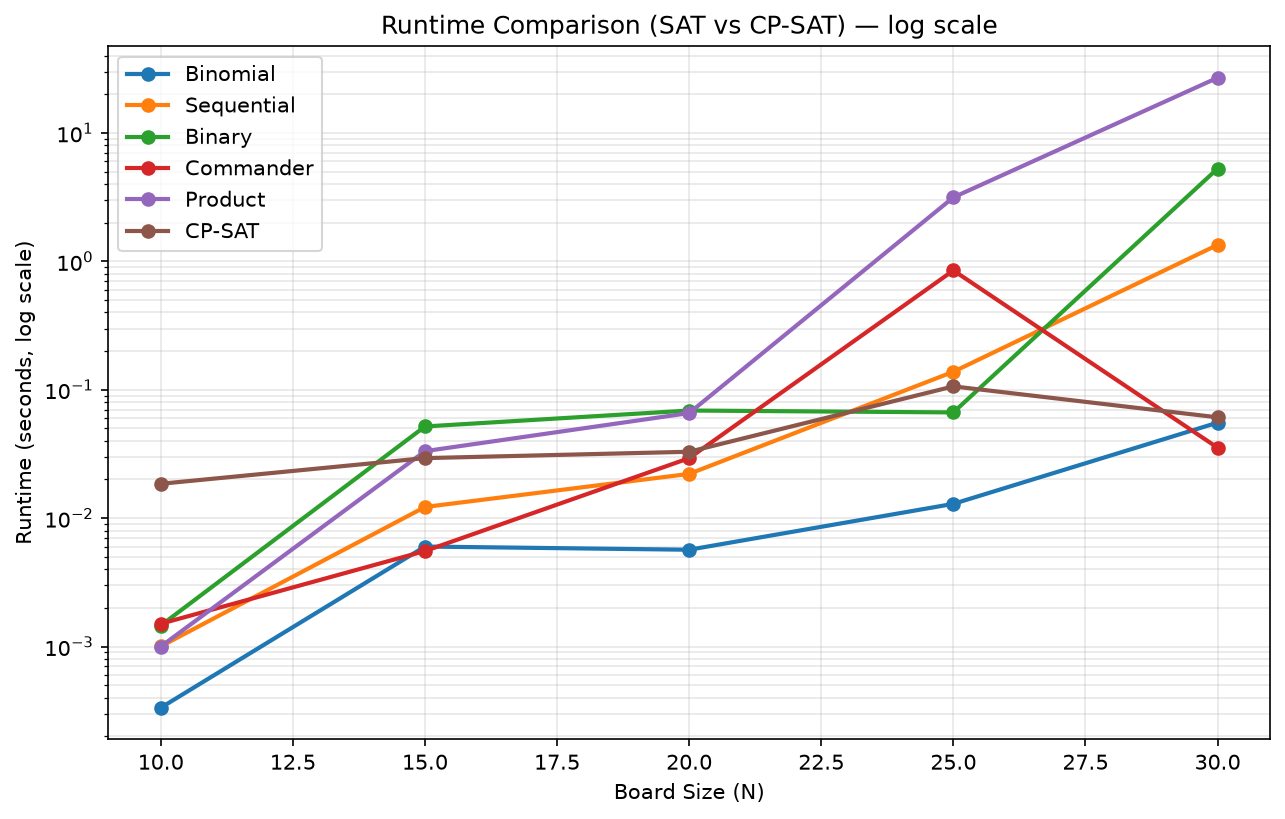
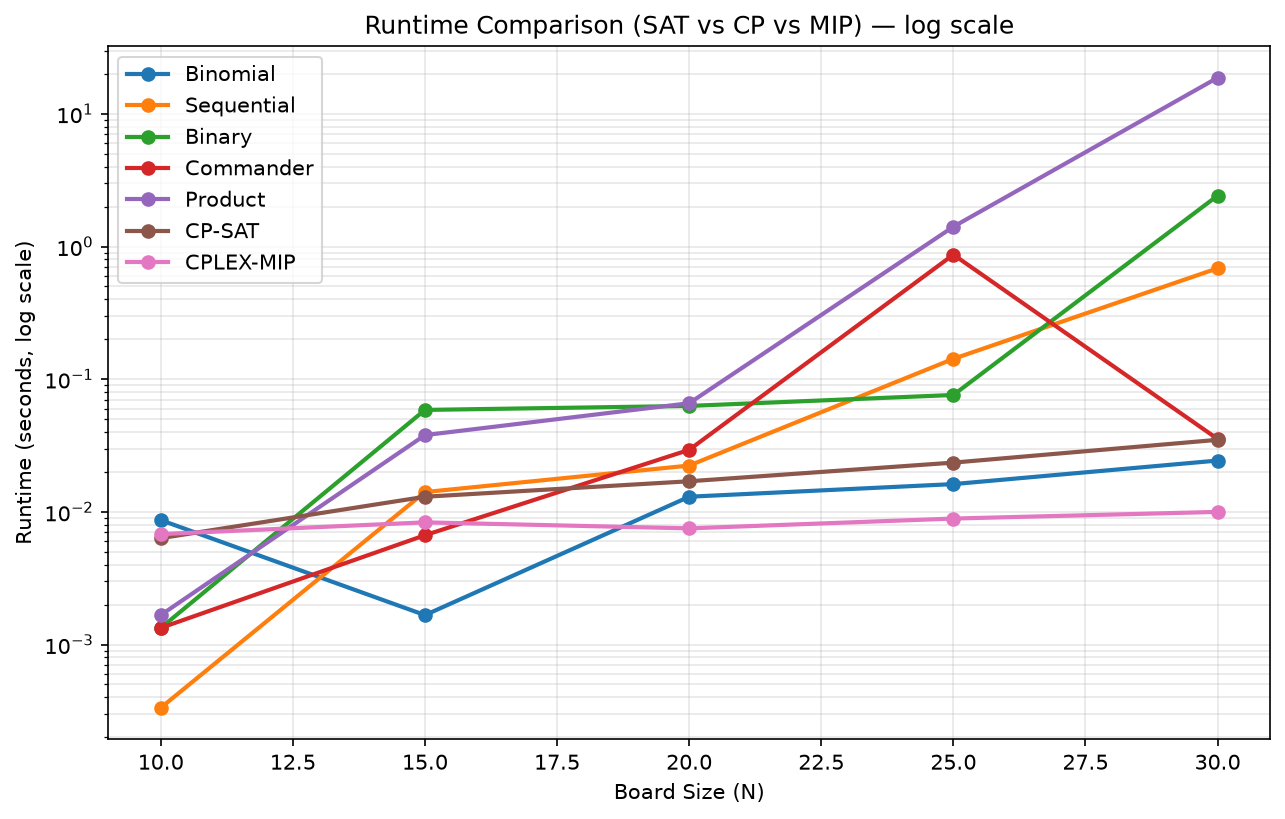
feat: integrate CPLEX MIP/CP solvers and harden benchmark methodology
- Add CplexMIPSolver with O(N^2) diagonal constraint optimization
- Add CplexCPSolver with auto-detect engine mechanism
- Enforce single-thread execution for all solvers to ensure fair comparison
- Implement strict verify_solution() for non-SAT models
- Fix benchmark timeout handling and chart filtering
- Update requirements.txt with docplex and cplex

diff --git a/src/benchmark.py b/src/benchmark.py
@@ -11,13 +11,16 @@ import pandas as pd
 from encoder import NQueensEncoder
 from solver import SATSolverWrapper
 from cp_solver import CPQueensSolver
+from cplex_mip_solver import CplexMIPSolver
+from cplex_cp_solver import CplexCPSolver
+
 sys.stdout.reconfigure(encoding='utf-8')
 
 PROJECT_ROOT = os.path.dirname(os.path.dirname(os.path.abspath(__file__)))
 RESULTS_DIR = os.path.join(PROJECT_ROOT, 'results')
 
 DEFAULT_SIZES = [10, 15, 20, 25, 30]
-DEFAULT_METHODS = ["binomial", "sequential", "binary", "commander", "product", "cp-sat"]
+DEFAULT_METHODS = ["binomial", "sequential", "binary", "commander", "product", "cp-sat", "cplex-mip", "cplex-cp"]
 CSV_COLUMNS = [
     'Board_Size', 'Algorithm', 'Variables', 'Clauses',
     'Gen_Time(s)', 'Solve_Time(s)', 'Runtime(s)', 'Is_SAT', 'Solution_Valid', 'Error',
@@ -87,31 +90,62 @@ def run_benchmark(args):
         for n in args.sizes:
             print(f"\n--- Đang kiểm thử N = {n} (lặp {args.repeats} lần) ---")
             for enc_name in args.methods:
-                alg_label = "CP-SAT" if enc_name == "cp-sat" else enc_name.capitalize()
+                if enc_name == "cp-sat":
+                    alg_label = "CP-SAT"
+                elif enc_name == "cplex-mip":
+                    alg_label = "CPLEX-MIP"
+                elif enc_name == "cplex-cp":
+                    alg_label = "CPLEX-CP"
+                else:
+                    alg_label = enc_name.capitalize()
+                
                 try:
-                    if enc_name == "cp-sat":
+                    if enc_name in ["cp-sat", "cplex-mip", "cplex-cp"]:
                         gen_times, solve_times = [], []
                         is_sat, valid = None, None
+                        timed_out = False
+                        active_solver = None
                         for _ in range(args.repeats):
                             start_gen = time.time()
-                            cp_solver = CPQueensSolver(n)
+                            if enc_name == "cp-sat":
+                                active_solver = CPQueensSolver(n)
+                            elif enc_name == "cplex-mip":
+                                active_solver = CplexMIPSolver(n)
+                            elif enc_name == "cplex-cp":
+                                active_solver = CplexCPSolver(n)
+
                             gen_times.append(time.time() - start_gen)
-                            is_sat, solve_time = cp_solver.solve(time_limit_sec=args.timeout)
+                            is_sat, solve_time = active_solver.solve(time_limit_sec=args.timeout)
                             solve_times.append(solve_time)
+                            timed_out = getattr(active_solver, 'timed_out', False)
+                            if not is_sat:
+                                break
                         gen_time = statistics.mean(gen_times)
                         solve_time = statistics.mean(solve_times)
                         total_time = gen_time + solve_time
                         num_vars, num_clauses = 0, 0
+                        if is_sat and active_solver is not None:
+                            valid = active_solver.verify_solution()
+                        error = "TIMEOUT" if timed_out else ""
                     else:
                         (num_vars, num_clauses, gen_time, solve_time,
                          is_sat, valid) = benchmark_sat(
                             n, enc_name, args.solver, args.repeats)
                         total_time = gen_time + solve_time
+                        error = ""
                     record_result(writer, results, n, alg_label, num_vars, num_clauses,
-                                  gen_time, solve_time, total_time, is_sat, valid)
+                                  gen_time, solve_time, total_time, is_sat, valid, error)
                     print(f"[{alg_label:>10}] Biến: {num_vars:<6} | Mệnh đề: {num_clauses:<8} "
                           f"| Sinh: {gen_time:.6f}s | Giải: {solve_time:.6f}s "
-                          f"| Tổng: {total_time:.6f}s | Nghiệm hợp lệ: {valid}")
+                          f"| Tổng: {total_time:.6f}s | Nghiệm hợp lệ: {valid}"
+                          + (f" | {error}" if error else ""))
+                except RuntimeError as e:
+                    if str(e) == "MISSING_ENGINE":
+                        print(f"[{alg_label:>10}] BỎ QUA: Chưa cài engine CP Optimizer của IBM.")
+                    else:
+                        error_msg = f"{type(e).__name__}: {e}"
+                        print(f"[{alg_label:>10}] LỖI: {error_msg}")
+                        record_result(writer, results, n, alg_label, 0, 0, 0.0, 0.0, 0.0, "", None, error_msg)
                 except Exception as exc:
                     error_msg = f"{type(exc).__name__}: {exc}"
                     print(f"[{alg_label:>10}] LỖI: {error_msg}")
@@ -137,15 +171,14 @@ def plot_charts(results):
         subset = df[df['Algorithm'] == alg].sort_values('N')
         plt.plot(subset['N'], subset['Time'], marker='o', label=alg, linewidth=2)
     plt.yscale('log')
-    plt.title('Runtime Comparison (SAT vs CP-SAT) — log scale')
+    plt.title('Runtime Comparison (SAT vs CP vs MIP) — log scale')
     plt.xlabel('Board Size (N)')
     plt.ylabel('Runtime (seconds, log scale)')
     plt.legend()
     plt.grid(True, which='both', alpha=0.3)
     plt.savefig(os.path.join(RESULTS_DIR, 'chart_runtime_comparison.png'), dpi=150, bbox_inches='tight')
     plt.close()
-
-    df_sat = df[df['Algorithm'] != 'CP-SAT']
+    df_sat = df[~df['Algorithm'].isin(['CP-SAT', 'CPLEX-MIP', 'CPLEX-CP'])]
     if not df_sat.empty:
         plt.figure(figsize=(10, 6))
         for alg in df_sat['Algorithm'].unique():

diff --git a/src/cplex_mip_solver.py b/src/cplex_mip_solver.py
@@ -1,0 +1,75 @@
+import time
+from docplex.mp.model import Model
+
+class CplexMIPSolver:
+    def __init__(self, n: int):
+        self.n = n
+        self.solution = None
+        self.timed_out = False
+        self.model = Model(name="NQueens_MIP")
+
+        # Variables: x[i, j] = 1 if queen at row i, col j
+        self.x = self.model.binary_var_matrix(keys1=range(n), keys2=range(n), name="q")
+
+        # Constraints:
+        # 1. Exactly one queen per row
+        for i in range(n):
+            self.model.add_constraint(self.model.sum(self.x[i, j] for j in range(n)) == 1)
+
+        # 2. Exactly one queen per column
+        for j in range(n):
+            self.model.add_constraint(self.model.sum(self.x[i, j] for i in range(n)) == 1)
+
+        # 3. At most one queen per major diagonal (row - col = const)
+        for k in range(-n + 1, n):
+            cells = [(i, i - k) for i in range(max(0, k), min(n, n + k))]
+            if len(cells) > 1:
+                self.model.add_constraint(
+                    self.model.sum(self.x[i, j] for i, j in cells) <= 1)
+
+        # 4. At most one queen per minor diagonal (row + col = const)
+        for k in range(2 * n - 1):
+            cells = [(i, k - i) for i in range(max(0, k - n + 1), min(n, k + 1))]
+            if len(cells) > 1:
+                self.model.add_constraint(
+                    self.model.sum(self.x[i, j] for i, j in cells) <= 1)
+
+    def solve(self, time_limit_sec: float = 100.0):
+        self.model.parameters.timelimit = time_limit_sec
+        self.model.parameters.threads = 1
+        self.model.set_log_output(None)
+
+        start_time = time.time()
+        solution = self.model.solve(log_output=False)
+        end_time = time.time()
+
+        runtime = end_time - start_time
+        is_sat = solution is not None
+
+        if is_sat:
+            self.solution = [
+                next(j for j in range(self.n) if self.x[i, j].solution_value > 0.5)
+                for i in range(self.n)
+            ]
+        else:
+            self.solution = None
+
+        self.timed_out = (not is_sat) and runtime >= time_limit_sec
+
+        return is_sat, runtime
+
+    def get_model(self):
+        return self.solution
+
+    def verify_solution(self) -> bool:
+        q = self.solution
+        if not q or len(q) != self.n:
+            return False
+        return (len(set(q)) == self.n
+                and len({q[i] - i for i in range(self.n)}) == self.n
+                and len({q[i] + i for i in range(self.n)}) == self.n)
+
+if __name__ == "__main__":
+    solver = CplexMIPSolver(8)
+    is_sat, runtime = solver.solve()
+    print(f"CPLEX MIP SAT={is_sat}, Runtime={runtime:.6f}, Valid={solver.verify_solution()}")

diff --git a/src/visualize.py b/src/visualize.py
@@ -1,0 +1,71 @@
+import argparse
+import sys
+from encoder import NQueensEncoder
+from solver import SATSolverWrapper
+from cp_solver import CPQueensSolver
+
+def print_board(n: int, queens_positions: list):
+    """
+    In bàn cờ N-Queens ra Terminal.
+    queens_positions là danh sách toạ độ cột của quân hậu tại từng hàng.
+    """
+    print(f"\n=== BÀN CỜ N-QUEENS (N={n}) ===")
+    for r in range(n):
+        row_str = ""
+        for c in range(n):
+            if queens_positions[r] == c:
+                row_str += "[♛] "
+            else:
+                row_str += "[·] "
+        print(row_str)
+    print("=" * (n * 4))
+
+def main():
+    parser = argparse.ArgumentParser(description="Chạy và hiển thị trực quan bàn cờ N-Queens.")
+    parser.add_argument("--size", type=int, default=8, help="Kích thước bàn cờ (N)")
+    parser.add_argument("--method", type=str, default="cp", choices=["cp", "binomial", "sequential", "binary", "commander", "product"], help="Thuật toán muốn xem")
+    args = parser.parse_args()
+
+    n = args.size
+    method = args.method.lower()
+
+    print(f"Đang sinh bài toán N={n} bằng thuật toán: {method.upper()}...")
+    
+    if method == "cp":
+        solver = CPQueensSolver(n)
+        is_sat, runtime = solver.solve()
+        if is_sat:
+            solution = solver.get_model()
+            print(f"Đã giải xong trong {runtime:.4f}s!")
+            print_board(n, solution)
+        else:
+            print("Không tìm thấy nghiệm!")
+    else:
+        encoder = NQueensEncoder(n)
+        clauses, num_vars = encoder.generate_clauses(enc_type=method)
+        print(f"Đã sinh {len(clauses)} mệnh đề. Đang giải...")
+        
+        solver = SATSolverWrapper(clauses)
+        is_sat, runtime = solver.solve()
+        
+        if is_sat:
+            print(f"Đã giải xong trong {runtime:.4f}s!")
+            model = solver.get_model()
+            
+            # Lọc các biến mang giá trị True (thuộc khoảng 1 đến n*n)
+            # để loại bỏ các biến phụ
+            true_vars = [v for v in model if v > 0 and v <= n * n]
+            
+            # Chuyển đổi ID biến thành vị trí cột
+            queens_positions = [0] * n
+            for v in true_vars:
+                r = (v - 1) // n
+                c = (v - 1) % n
+                queens_positions[r] = c
+                
+            print_board(n, queens_positions)
+        else:
+            print("Không tìm thấy nghiệm!")
+
+if __name__ == "__main__":
+    main()

diff --git a/src/cplex_cp_solver.py b/src/cplex_cp_solver.py
@@ -1,0 +1,65 @@
+import time
+from docplex.cp.model import CpoModel
+
+def _engine_available() -> bool:
+    try:
+        from docplex.cp.solver.solver_local import CpoSolverLocal
+        ctx = CpoModel().get_cpo_context()
+        CpoSolverLocal(None, ctx)
+        return True
+    except Exception:
+        return False
+
+class CplexCPSolver:
+    def __init__(self, n: int):
+        self.n = n
+        self.solution = None
+        self.timed_out = False
+        self.model = CpoModel(name="NQueens_CP")
+
+        # Variables: q[i] is the column of the queen in row i
+        self.q = self.model.integer_var_list(n, 0, n - 1, "q")
+
+        # Constraints:
+        self.model.add(self.model.all_diff(self.q))
+        self.model.add(self.model.all_diff([self.q[i] - i for i in range(n)]))
+        self.model.add(self.model.all_diff([self.q[i] + i for i in range(n)]))
+
+    def solve(self, time_limit_sec: float = 100.0):
+        if not _engine_available():
+            raise RuntimeError("MISSING_ENGINE")
+
+        start_time = time.time()
+        solution = self.model.solve(TimeLimit=time_limit_sec, LogVerbosity="Quiet")
+        end_time = time.time()
+
+        runtime = end_time - start_time
+        is_sat = bool(solution) and solution.is_solution()
+
+        if is_sat:
+            self.solution = [solution[self.q[i]] for i in range(self.n)]
+        else:
+            self.solution = None
+
+        self.timed_out = (not is_sat) and runtime >= time_limit_sec
+
+        return is_sat, runtime
+
+    def get_model(self):
+        return self.solution
+
+    def verify_solution(self) -> bool:
+        q = self.solution
+        if not q or len(q) != self.n:
+            return False
+        return (len(set(q)) == self.n
+                and len({q[i] - i for i in range(self.n)}) == self.n
+                and len({q[i] + i for i in range(self.n)}) == self.n)
+
+if __name__ == "__main__":
+    solver = CplexCPSolver(8)
+    try:
+        is_sat, runtime = solver.solve()
+        print(f"CPLEX CP SAT={is_sat}, Runtime={runtime:.6f}, Valid={solver.verify_solution()}")
+    except Exception as e:
+        print(f"Lỗi: {e}")

diff --git a/report/main.tex b/report/main.tex
@@ -4,21 +4,20 @@
 \usepackage{amsmath}
 \usepackage{amssymb}
 \usepackage{hyperref}
-\usepackage[utf8]{inputenc}
-\usepackage[T5]{fontenc} 
-\usepackage{lmodern}
+% Sử dụng XeLaTeX để hỗ trợ tiếng Việt Unicode chuẩn không lỗi Toán
+\usepackage{fontspec}
 \usepackage{booktabs}
 \usepackage{float}
 
 \begin{document}
 
 \shorttitle{Exact SAT Solving for the N-Queens Problem}
-\shortauthors{Phạm Vinh Trí}
+\shortauthors{Pham Vinh Tri}
 
 \title[mode = title]{Exact SAT Solving and Constraint Programming for the N-Queens Problem}
 
-\author[1]{Phạm Vinh Trí}
-\address[1]{Faculty of Information Technology, Trường Đại học Công nghệ, Việt Nam}
+\author[1]{Pham Vinh Tri}
+\address[1]{Faculty of Information Technology, VNU University of Engineering and Technology, 144 Xuan Thuy, Cau Giay Ward, Hanoi, 100000, Vietnam}
 
 \begin{abstract}
 Bài toán N-Queens là một bài toán tối ưu hóa tổ hợp (combinatorial optimization) kinh điển, yêu cầu tìm kiếm một cấu hình sắp xếp an toàn cho mạng lưới các quân hậu trên bàn cờ $N \times N$. Báo cáo này trình bày phương pháp tiếp cận chính xác (exact approach) dựa trên kỹ thuật Thỏa mãn logic mệnh đề (SAT Solving) để giải quyết bài toán. Cống hiến chính của nghiên cứu là việc mô hình hóa toán học, cài đặt và đánh giá đối chuẩn 5 chuẩn mã hóa At-Most-One (AMO) bao gồm: Binomial, Sequential Counter, Binary, Commander và Product. Hơn thế nữa, nghiên cứu thực hiện đối chuẩn toàn diện với mô hình Constraint Programming (CP) thông qua thư viện Google OR-Tools. Các kết quả thực nghiệm từ các mốc không gian nhỏ ($N=10$) đến các không gian tìm kiếm khổng lồ ($N=30$) giải mã sự đánh đổi khốc liệt giữa không gian lưu trữ và thời gian giải, đồng thời lý giải nguyên nhân sâu xa dẫn tới hiện tượng thắt cổ chai (bottleneck) của các thuật toán SAT trước bài toán chứa ràng buộc toàn cục.

diff --git a/src/cp_solver.py b/src/cp_solver.py
@@ -1,12 +1,11 @@
-import sys
 import time
 from ortools.sat.python import cp_model
-
-sys.stdout.reconfigure(encoding='utf-8')
 
 class CPQueensSolver:
     def __init__(self, n: int):
         self.n = n
+        self.solution = None
+        self.timed_out = False
         self.model = cp_model.CpModel()
         
         self.queens = [self.model.NewIntVar(0, n - 1, f'q_{i}') for i in range(n)]
@@ -18,6 +17,7 @@ class CPQueensSolver:
     def solve(self, time_limit_sec: float = 100.0):
         solver = cp_model.CpSolver()
         solver.parameters.max_time_in_seconds = time_limit_sec
+        solver.parameters.num_search_workers = 1
         
         start_time = time.time()
         status = solver.Solve(self.model)
@@ -26,11 +26,18 @@ class CPQueensSolver:
         runtime = end_time - start_time
         is_sat = (status == cp_model.OPTIMAL or status == cp_model.FEASIBLE)
         
+        self.solution = [solver.Value(self.queens[i]) for i in range(self.n)] if is_sat else None
+        self.timed_out = (status == cp_model.UNKNOWN)
+        
         return is_sat, runtime
 
-if __name__ == "__main__":
-    n = 15
-    print(f"--- Đang giải N-Queens bằng OR-Tools CP-SAT (N={n}) ---")
-    cp_solver = CPQueensSolver(n)
-    is_sat, runtime = cp_solver.solve()
-    print(f"Kết quả: SAT={is_sat} | Thời gian: {runtime:.6f} giây")
+    def get_model(self):
+        return self.solution
+
+    def verify_solution(self) -> bool:
+        q = self.solution
+        if not q or len(q) != self.n:
+            return False
+        return (len(set(q)) == self.n
+                and len({q[i] - i for i in range(self.n)}) == self.n
+                and len({q[i] + i for i in range(self.n)}) == self.n)
